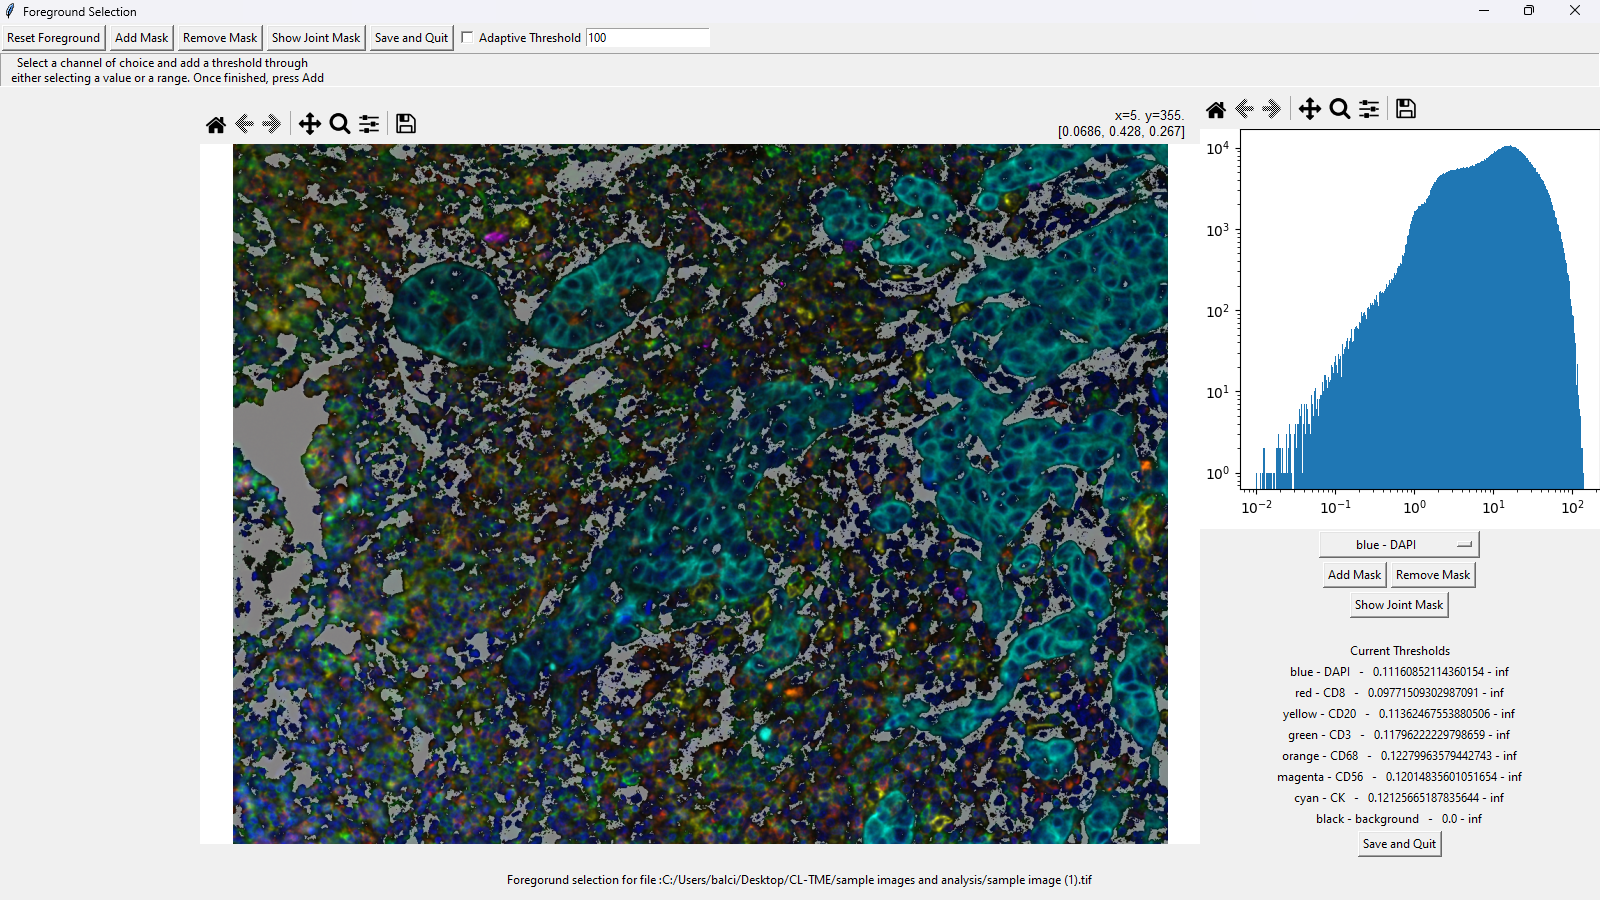
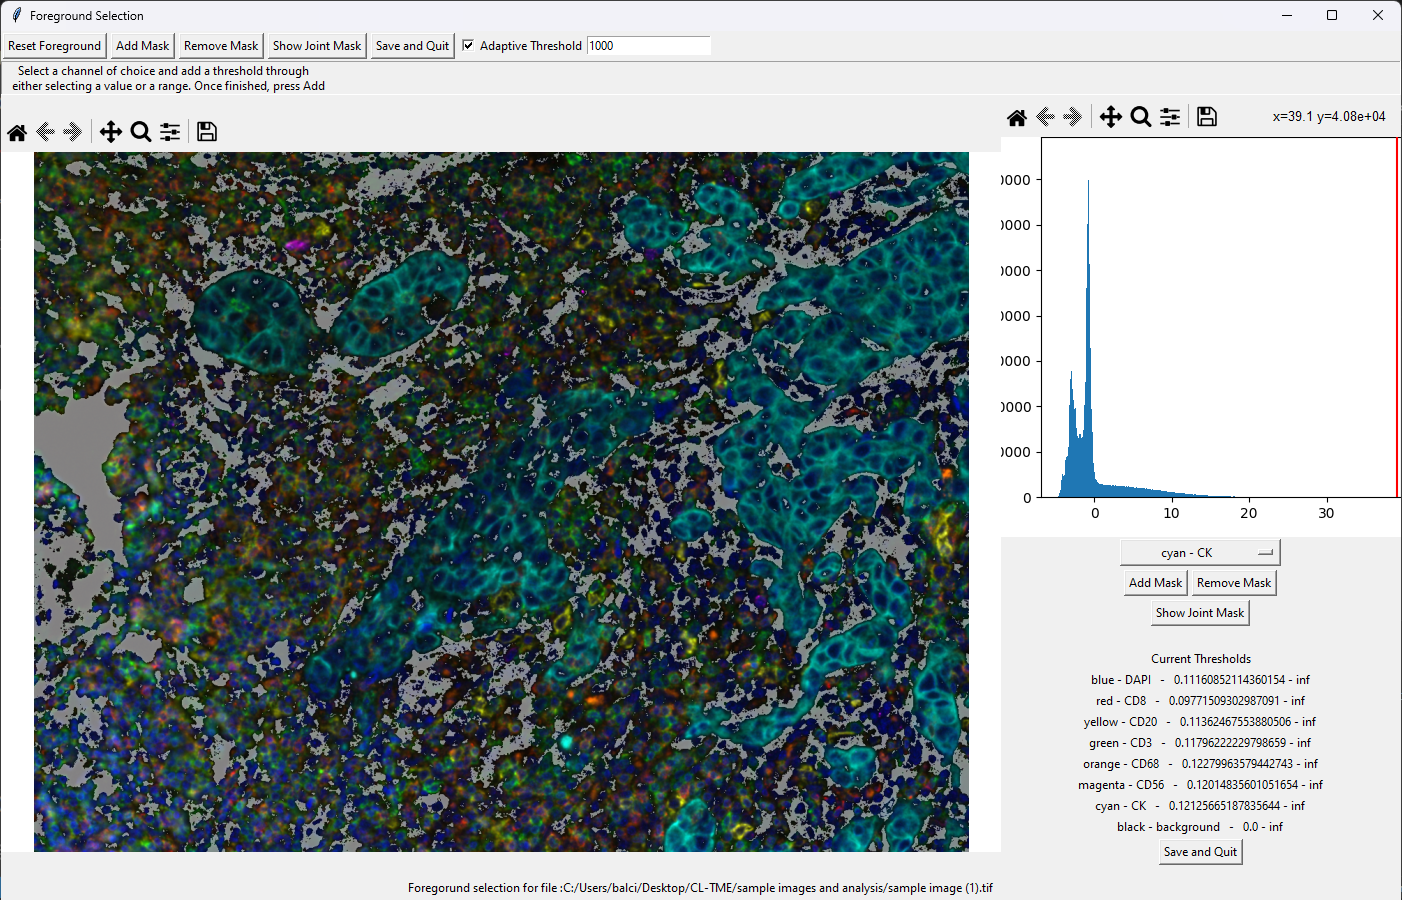
tutorial finished

diff --git a/imageMenu.py b/imageMenu.py
@@ -1231,6 +1231,10 @@ def ThresholdForeground(self):
         foreground_threshold = [
                 np.zeros(n_channels), np.full(n_channels, np.inf)]
     popup = tkinter.Tk()
+    while len(foreground_threshold[0]) < n_channels:
+        foreground_threshold = [np.append(foreground_threshold[0],0), np.append(foreground_threshold[1],np.inf)]
+    while len(self.adaptive_temp) < n_channels:
+        self.adaptive_temp = np.append(self.adaptive_temp,0)
     self.foreground_threshold[self.activeImage] = foreground_threshold
     self.fore_thres_temp = np.array(foreground_threshold)
     self.popup = popup
@@ -2726,6 +2730,10 @@ def FillHoles(self):
                 "Foreground"]["adaptive_size"]
         else:
             adaptive_temp = np.zeros(n_channels)
+        while len(fore_thres[0]) < n_channels:
+            fore_thres = [np.append(fore_thres[0],0), np.append(fore_thres[1],np.inf)]
+        while len(adaptive_temp) < n_channels:
+            adaptive_temp = np.append(adaptive_temp,0)
         self.foreground_threshold[self.activeImage] = fore_thres
         im_temp = np.zeros((im_raw.shape[0], im_raw.shape[1]),
                             dtype=np.bool)
@@ -2842,6 +2850,10 @@ def FillHoles(self):
                     "Segments"][segName]["adaptive_size"]
         else:
             adaptive_thres = np.zeros(n_channels)
+        while len(seg_thres[0]) < n_channels:
+            seg_thres = [np.append(seg_thres[0],0), np.append(seg_thres[1],np.inf)]
+        while len(adaptive_thres) < n_channels:
+            adaptive_thres = np.append(adaptive_thres,0)
         for i in range(n_channels):
             to_plot = im_raw[:, :, i]
             if adaptive_thres[i] > 0:

diff --git a/README_with_tutorial.md b/README_with_tutorial.md
@@ -23,7 +23,7 @@ And run: `python.exe TME_analyzer.py`
 Pack the project into a single binary with: 
 ```python setup.py build```
 
-## Analysis tutorial
+## Image analysis tutorial
 
 ### Channel setup
 
@@ -81,7 +81,7 @@ When all channels are assigned, press Show Joint Mask to see your foreground mas
 When satisfied, press `Save and Quit` to save and close the Threshold Foreground, and return to the main image analysis window. With a new "channel" with the name Foreground. Here you can visualize the selected foreground.
 
 ### Foreground gap-filling
-In the foreground image you just created, you will realize a lot of small regions assigned to non-foreground. You will now correct this by "Filling Holes". You can reach this option through `Image Analysis -> Fill Holes` or by clicking `Fill Holes` in the toolbar. This will now open the new window titled "Fill Images" with a yellow (foreground) - purple (background) image in the left with a dropdown at top right displaying "Foreground" and two histograms at the right with titles "Foreground Area Limits" at top and "Background Area Limits" at the bottom, with the ranges indicated. Here, on both the histograms, click-and-drag to select the range from around 5000 until the upper range of the histogram. You will realize the image, the histograms and the range at the histogram title changing when you do so. Again note that if the upper limit of your selected range is larger than the image size, then the upper limit is set to the default value of infinity. When you are satisfied witht he result, click `Register Filled Image` at the left top to overwrite your Foreground image.
+In the foreground image you just created, you will realize a lot of small regions assigned to non-foreground. You will now correct this by "Filling Holes". You can reach this option through `Image Analysis -> Fill Holes` or by clicking `Fill Holes` in the toolbar. This will now open the new window titled "Fill Images" with a yellow (foreground) - purple (background) image in the left with a dropdown at top right displaying "Foreground" and two histograms at the right with titles "Foreground Area Limits" at top and "Background Area Limits" at the bottom, with the ranges indicated. Here, on both the histograms, click-and-drag to select the range from around 5000 until the upper range of the histogram. You will realize the image, the histograms and the range at the histogram title changing when you do so. Again note that if the upper limit of your selected range is larger than the image size, then the upper limit is set to the default value of infinity. When you are satisfied with the result, click `Register Filled Image` at the left top to overwrite your Foreground image.
 
 ![](https://github.com/ErasmusMC-Bioinformatics/TME_Analyzer/blob/main/images/Foreground_filling.png)
 
@@ -91,22 +91,124 @@ Go to `Image Analysis -> Filter Image` to open the image filtering module. Here 
 #### Gaussian filtering of CK signal
 Prior to tissue segmentation, we should register (i.e., `Add Image`) the gaussian filtered CK channel for tumor segmentation. First change the channel to CK by changing the second from right dropdown at the top from "DAPI" to "CK". To facilitate the observation in real-time the effect of this filtration, best to also change the top right dropdown from "Composite" to "white" or to a color of choice.
 
-Leave the first dropdown at "Gaussian filter", change the number from 3 to 10, change the operation from "-" to "and-", the second filter from "Gaussian filter" to "Minimum" and the second number from 30 to 5000. Here the operation "and-" performs the second filter on the image that has already been processed with the first filter and then performs the subtraction of the second filtered image from the first; whereas the "-" operation performs both filters on the original image and then performs the subtraction. At this point, the image has not changed yet. You need to activate the individual filters by clicking the checkboxes. If the checkboxes are clicked while changing the filter type or size, the image is updated in real-time. Here, leave the checkbox after "Normalize" unclicked. This function normalizes the range of the filtered image so the minimal signal is 0 and the maximum is 1, which is not what we want for these images.
+Leave the first dropdown at "Gaussian filter", change the number from 3 to 10, change the operation from "-" to "and-", the second filter from "Gaussian filter" to "Minimum" and the second number from 30 to 1000. Here the operation "and-" performs the second filter on the image that has already been processed with the first filter and then performs the subtraction of the second filtered image from the first; whereas the "-" operation performs both filters on the original image and then performs the subtraction. At this point, the image has not changed yet. You need to activate the individual filters by clicking the checkboxes. If the checkboxes are clicked while changing the filter type or size, the image is updated in real-time. Here, leave the checkbox after "Normalize" unclicked. This function normalizes the range of the filtered image so the minimal signal is 0 and the maximum is 1, which is not what we want for these images.
 
 ![](https://github.com/ErasmusMC-Bioinformatics/TME_Analyzer/blob/main/images/CK_filter.png)
 
 Once you are satisfied with the gaussian blurred CK signal for the tissue segmentation, press `Add Image` and press `Okay`. If you now look at the main image analysis window, you will see the new channel of CK_filtered appearing on the list of channels at the right.
 
-#### Gaussian filtering of CK signal
+#### Uniform background correction for phenotyping
+While we are still at the filtering window, we can also register the background corrected images for phenotyping:
+ Go through the channels of phenotyping (i.e., CD8, CD20, CD3, CD68, CD56 and CK). 
+ 1. Set the first filter to "Gaussian filter" with size 0.
+ 2. Set the operator to "-" 
+ 3. Set the second filter to "Uniform filter" with size 1000.
+ 4. Make sure the checkboxes next to the filter types are checked.
+ 5. Make sure the checkbox next to "Normalize" is not checked. 
+ 6. Click `Use for Phenotyping` and press `Okay`
+
+ Note that once the parameters are setup for one channel, they do not need to be readjusted after changing the channel. You can directly change channel and press `Use for Phenotyping` and go through the channels.
+
+ Close the Image Filtering window
 
 ### Tissue segmentation
+You can open the Tissue Segmentation window either through `Image Analysis -> Tissue Segmentation` or by clicking `Tissue Segmentation` at the toolbar.
+You see a similar window to the that of the Foreground Selection. Under the histogram, change the selected channel to the CK_filtered that we created in the previous step. You will then see a very clear seperation of positive and negative signals in the histogram. Click-and-drag to make a selection from around 1 to he maximum of the x-axis and press `Add Channel`. You should see the range next to the CK_filtered change to 1 to infinity. Keep in mind that for upper limit of the range to go to infinity, the upper limit of your range selection has to higher than the highest value on the histogram.
+
+Once satisfied, click `Add Segment`. Here in the new window titled "Add Segment" there is a dropdown menu with the names "DAPI", "Tumor", "Stroma" and "other". Select "Tumor" and press `Okay`.
+
+![](https://github.com/ErasmusMC-Bioinformatics/TME_Analyzer/blob/main/images/Tissue_segmentation.png)
+
+You may now close the segmentation window.
+
+#### Additional notes on tissue segmentation
+Here from the default names, "DAPI" mask generated is assumed to be nucleus signal for further analysis; whereas assigning a signal to "Tumor", if "Stroma" is left unassigned, generates a "Stroma" mask from Foreground mask that is not assigned to "Tumor" so that "Tumor" and "Stroma" masks are mutually exclusive and when combined would result in the Foreground mask. The inverse also happens if "Stroma" is assigned and "Tumor" is not.
+
+Note: If range is selected in multiple channels, unlike the Foreground Selection where the signals are added resulting in a logical "OR" operation, here masks are multiplied resulting in an "AND" operation, so only the tissue that is positive for BOTH signals is assigned in the segmentation.
 
 ### Tissue gap-filling
+You can again reach the gap filling window through `Image Analysis -> Fill Holes` or by clicking `Fill Holes` in the toolbar. This will open the new window titled "Fill Images" with a yellow (foreground) - purple (background) image in the left with a dropdown at top right displaying "Foreground" and two histograms at the right with titles "Foreground Area Limits" at top and "Background Area Limits" at the bottom, with the ranges indicated. Change the image from "Foreground" to the newly assigned "Tumor" from the dropdown at the right top. Here, on both the histograms, click-and-drag to select the range from around 5000 until the upper range of the histogram. You will realize the image, the histograms and the range at the histogram title changing when you do so. Again note that if the upper limit of your selected range is larger than the image size, then the upper limit is set to the default value of infinity. When you are satisfied with the result, click `Register Filled Image` at the left top to overwrite your Tumor image.
+
+![](https://github.com/ErasmusMC-Bioinformatics/TME_Analyzer/blob/main/images/Tumor_filling.png)
 
 ### Cell segmentation
+For cell segmentation, we will be using the stardist algorithm (https://github.com/stardist/stardist). You can access this algorithm in TME-A through `Image Analysis -> Neural Networks Segmentation`. This segmentation model is presented in a ready-to-apply mode, and you only need to press `Perform`. After this step, new images with the name DAPI, Nuclei and Cells should appear in the main window. Feel free to look through these images.
+
+#### Notes on stardist segmentation
+Relating to the options in the Neural Networks Segmentation
+- If you unclick the checkbox next to Nucleus segmentation, you can choose the name your segmentation masks as you wish.
+- Changing the Threshold would change the amount of signal assigned to nucleus, whereas non-maximum suppression would change the amount of segmentation. Further details can be found in the startist website (https://github.com/stardist/stardist).
+- "Extend Cell Area To:" assigns regions to cells, starting from the nucleus, within the foreground until either the value of the cell area reaches the indicated value, or the boundary of the cell reaches the boundary of the adjacent cell.
+- If you change the "Extend Cell Area To:" dropdown to "Extend Cells:" assigns regions to cells, starting from the nucleus, within the foreground until either the distance from the nucleus boundary to the cell boundary reaches the indicated value, or the boundary of the cell reaches the boundary of the adjacent cell.
+- Pressing `Preview` would show the segmentation in the main image window without saving it.
+
+
+![](https://github.com/ErasmusMC-Bioinformatics/TME_Analyzer/blob/main/images/stardist_segmentation.png)
+
+#### Alternative segmentation
+Similar to assigning a Tumor mask, a DAPI mask can also be defined in the `Tissue Segmentation` window. Be warned that the stardist segmentation gives a more accurate segmentation than the manual segmentation. If you however want to explore this option, an adaptive threshold of 100, and minimum threshold of 1 works decent for manual DAPI mask. After setting up these values for the DAPI channel and pressing `Add Channel`, press `Add Segment` select "DAPI" and press `Okay`. At this step you can close the "Tissue Segmentation" window. If you now click the `Nucleus Detection` you can perform watershed segmentation based nucleus and cell segmentation. You can select the range of acceptable nucleus size from either of the histograms on the right. The top histogram displays the size of the DAPI mask before segmentation, and bottom is after. Note that the DAPI mask below the lower range is just ignored. Here again the "Extend Cell Area To:" and "Extend Cells:" options are available at the right top. Additionally, there is a `Combine cells <` button at the toolbar. This button makes the software combine the cells of area smaller than the area indicated in the box (default set to 100). Again it should be noted that the stardist segmentation works better than the manual nucleus segmentation for this dataset.
 
 ### Cell phenotyping
+After segmentation of nuclei and cells, we can go ahead with phenotying the cells. If you press `Phenotype Selection` in the toolbar, which can also be found at `Data Analysis -> Phenotype Selection`, the cell intensity profiles, using the filtered images from image filtering above, will be calculated. In the new window, these values will be displayed as a 2D scatter plot in the center axis, the histogram of the x-axis parameter is shown at the top axis, whereas the histogram of the y-axis parameter is shown at the right axis. Here also note that in the original window now there is a new "All Cells" image, which corresponds to the nucleus centers of all cells.To set the values presented in the manuscript;
+
+1. Change the second dropdown on the y-axis from "Nucleus" to "Cell"
+2. Change the third dropdown on the y-axis from "Geometry" to "CD8"
+The first and last dropdowns are to be "Linear" and "Mean Intensity", which are also the default settings
+3. Press the `Add Phenotype` button an the right this activates the cursor to selection mode.
+4. Drag the range at the right axis to get values higher than 0.4. 
+NOTE: At this point you can turn on the `Show pop` option to see on the image in the main window the selected population (shown in red) and the non-selected population (shown in blue). For clear visiulaization, in the main window, you can unclick the check-box next to display to turn off all channels and click the check-box next to CD8 to only show this channel. These steps will overwrite the `Show pop` option, you can reactivate it by clicking it again in the "Phenotype Selection" window. Here you can also change the size of the cell location indicators by dragging the "Point Size" slider at the top.
+![](https://github.com/ErasmusMC-Bioinformatics/TME_Analyzer/blob/main/images/CD8_phenotyping.png)
+![](https://github.com/ErasmusMC-Bioinformatics/TME_Analyzer/blob/main/images/CD8_selection.png)
+5. Once you are satisfied, press `Save Selection` on the right of the "Phenotype Selection" window.
+6. Name your selection as "CD8+" and press `Okay`
+
+Here note that, in the main window, in addition to the new CD8+ phenotype, also two phenotypes, namely "Tumor+" and "Stroma+" are defined. These are based on the tissue segmentation and segregares the cells, based on the location of the center of their nuclei, into tumor compartment and stroma compartment cells, the latter being defined as the non-tumor compartment cells.
+
+Repeat steps 1-6 for CD20 (threshold of 0.7), CD3 (0.3), CD68 (1), CD56 (0.7) and CK (0.1), naming them CD20+, CD3+, CD68+, CD56+ and CK+ respectively.
+
+At any point you can look at a particular phenotyping by selecting it at the dropdown menu at the right hand side of the "Phenotype Selection" window.
+
+Once finished, close the phenotyping window. Now the image analysis is finished and your main window with the analysis images should like the following:
+![](https://github.com/ErasmusMC-Bioinformatics/TME_Analyzer/blob/main/images/finished_analysis.png)
+
+#### Cell phenotyping visualizations
+This window is to facilitate the phenotype selection so feel free to play around with all the different buttons and drag controllers in the axis display to explore the possibilites.
+
+## Downstream analysis
+It is always a good practice to save your analysis when finished, and reapply it. So let's look at these two options first
+### Saving analysis
+You can save your image, analysis parameters and the analysis results by clicking `Saving -> Save Workplace`. This exports the image and analysis as a ".picle" file. 
+
+### Loading analysis
+You can load saved analysis through `Load -> Load Workspace`.
+
+### Reanalysis
+You can see the analysis parameters that are used to copy an analysis from one image to another in the "Log". If you go to `Data Analysis -> Display Log` you can see the output from the python console being displayed here. This is also the place to look if software freezes, or does not give the expected outcome, to see what step caused the error. In order to display the analysis parameters in this window, you just need to press the `Print params` button. The contents of the log remain even after closing and reopening it, therefore it continuously captures the console. You can however always press `Clear` to clear the contents of the log.
+
+#### Reanalysis on same image
+You just have to click `Data Analysis -> Redo Analysis` to perform the analysis with the saved setting fresh on the same image.
+
+#### Applying current analysis to all open images (including the same image)
+Here, you just have to click `Data Analysis -> Apply Analysis to All` to perform the analysis with the saved setting on all the open images.
+
+#### Using a prior analysis to analyze current image
+You can do this by pressing `Data Analysis -> Reanalyze Image Like ...`, which opens a new popup, allowing you to select which image analysis you want to copy (this analysis should be already loaded into TME-A. See Loading analysis). Here, you can also select the same image, which is the same as `Data Analysis -> Redo Analysis`.
 
 ### Export Data
+You can export the cell data from the software by pressing `Export Data`
+![](https://github.com/ErasmusMC-Bioinformatics/TME_Analyzer/blob/main/images/sample_data_table.png)
 
 ### Data Analysis
+Pressing the `Data Analysis` opens a new window, where you can directly quantify cell types, and export them, from TME-A. An example can be seen below:
+![](https://github.com/ErasmusMC-Bioinformatics/TME_Analyzer/blob/main/images/Data_analysis.png)
+
+## Comparing your analysis to published results
+Click `Load Image`, and reload the image "sample image (1).tif". Note that if you have restarted the software, you would have to redo "Channel Setup". 
+Click `Data Analysis -> Reanalyze Using default settings`
+You should end up more or less with the same analysis you have performed above. You can of course compare:
+- The individual images, by going through images in the main window
+- The cellular data by adding quantification from both analysis at the `Data Analysis` module (Note that here the data is displayed PER IMAGE, so if you have two different analysis on the same image open, only the latest analysis will be displayed. You can see analysis from both images by renaming the image before loading it)
+- The analysis parameters through the `Data Analysis -> Display Log`, and pressing `Print params`. You would then have to change your analysis to the other (main window, dropdown at right bottom) and press `Print params` again.
+
+## Final points
+Hope you made it here and are excited about TME-A. This tutorial does not cover all the aspects of the TME-A. So feel free to explore and contact us with any questions, feedback, ammendments you see necessary and bug reports. 
